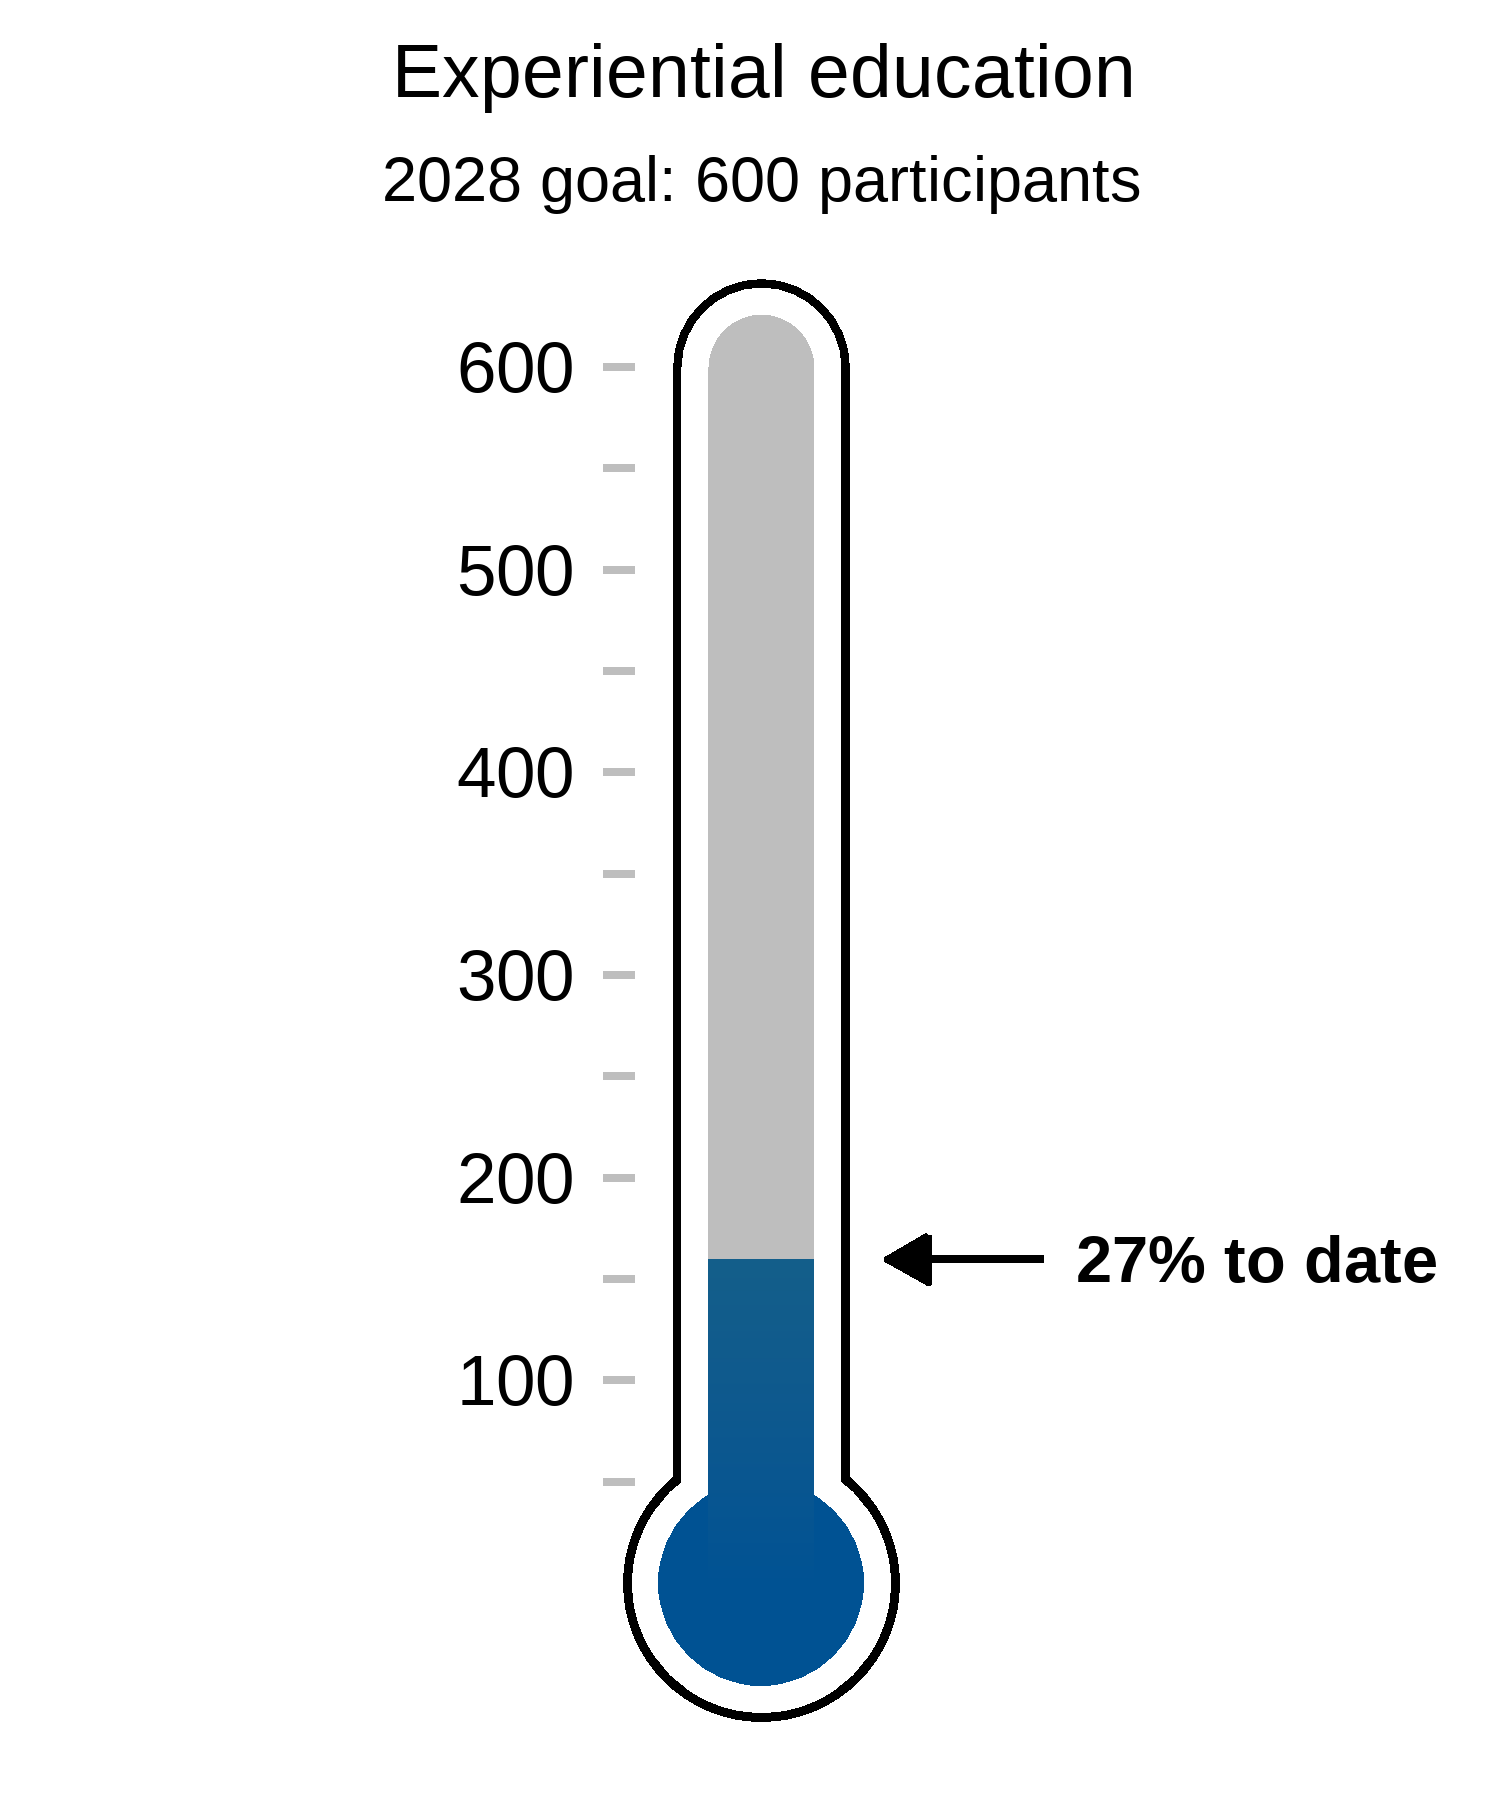
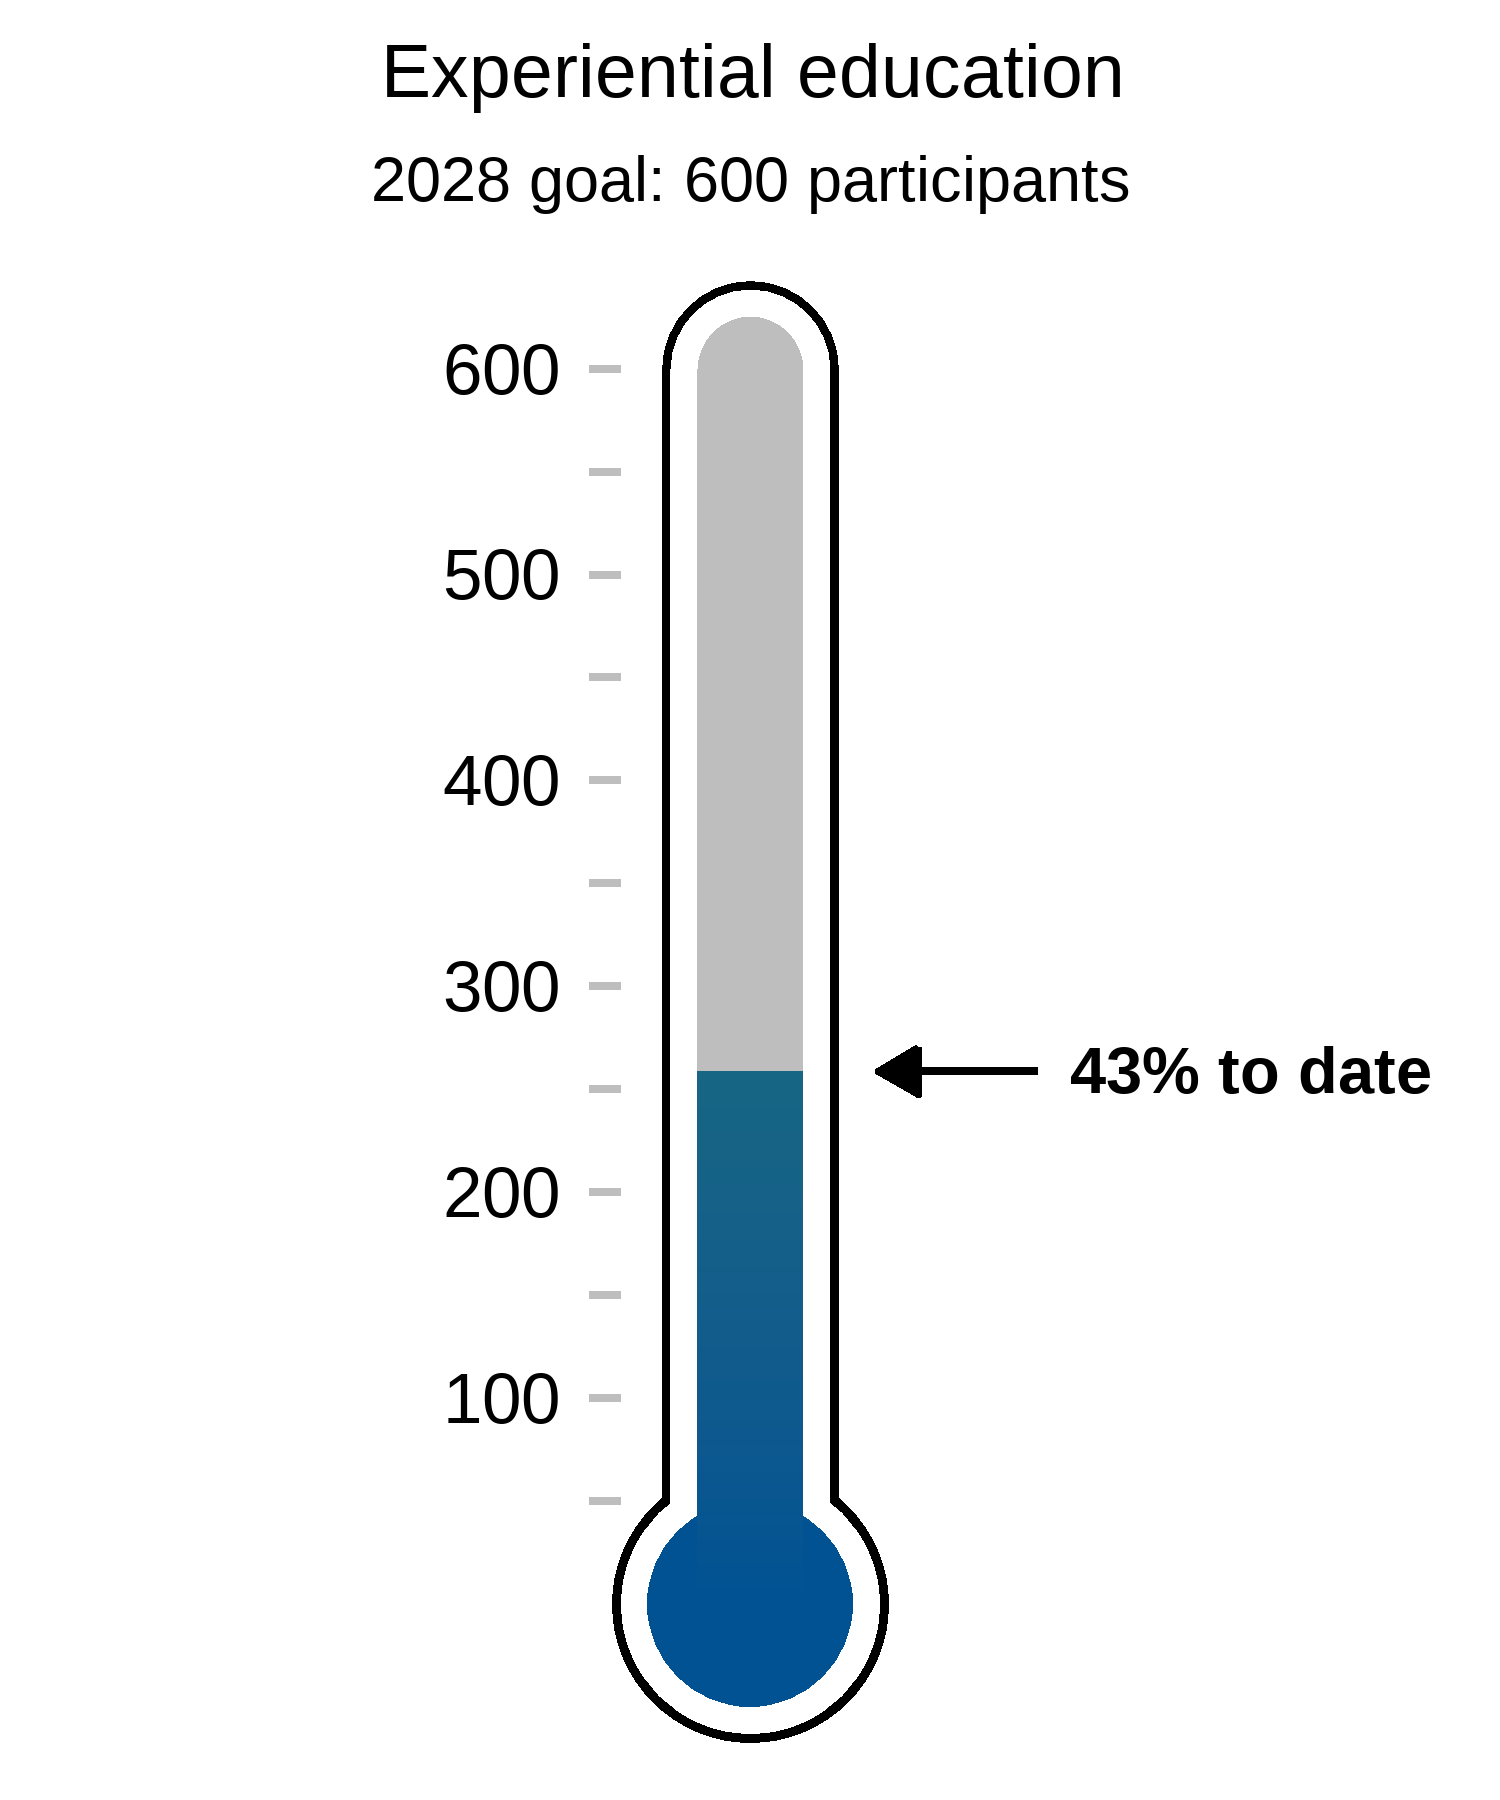
change gad graphic to same on website, update exped

diff --git a/docs/give-a-day.html b/docs/give-a-day.html
@@ -192,13 +192,13 @@ of blue carbon habitats by using tea bags to measure soil decomposition
 rates and carbon storage capacities of wetlands.</p>
 <div id="year-in-review" class="section level2">
 <h2>2025 Year in Review</h2>
-<p><img
-src="https://tbep.org/wp-content/uploads/Give-A-Day-Recap-1.jpg" />
+<p><img src="https://tbep.org/wp-content/uploads/Give-A-Day-Recap-1.jpg"
+style="display: block; margin-left: auto; margin-right: auto;;width:80.0%" /></p>
 <!-- ```{r, out.width = '80%', fig.height = 17, fig.width = 14}
 gaddat %>% 
   gadsum_fun(yrsel = yrsel) %>% 
   gadsum_plo(family = fml)
-``` --></p>
+``` -->
 </div>
 <div id="trash-free-waters" class="section level2">
 <h2>Trash Free Waters</h2>
@@ -216,8 +216,8 @@ href="https://tbep.org/trash-free-waters/" target="_parent">Trash Free
 Waters</a> and <a href="https://tbep.org/debris-derby/"
 target="_parent">Debris Derby</a> pages to learn more about this
 initiative.</p>
-<div class="reactable html-widget html-fill-item" id="htmlwidget-57aa38294b674d146369" style="width:auto;height:auto;"></div>
-<script type="application/json" data-for="htmlwidget-57aa38294b674d146369">{"x":{"tag":{"name":"Reactable","attribs":{"data":{"Year":[2025,2024,2023,2022],"Teams":["32","19","40"," 9"],"Volunteers":["125"," 66","140"," 50"],"Pounds of trash removed":["7,114","-","4,664","2,600"],"Sponsors":["15","27","24"," 8"]},"columns":[{"id":"Year","name":"Year","type":"numeric","headerStyle":{"fontSize":"20px","fontFamily":"roboto"},"footerStyle":{"fontSize":"20px","fontFamily":"roboto"},"align":"left"},{"id":"Teams","name":"Teams","type":"character","headerStyle":{"fontSize":"20px","fontFamily":"roboto"},"footerStyle":{"fontSize":"20px","fontFamily":"roboto"},"header":"<span style=\"margin-right: 5px;\"><svg aria-hidden=\"true\" role=\"img\" viewBox=\"0 0 576 512\" style=\"height:1em;width:1.12em;vertical-align:-0.125em;margin-left:auto;margin-right:auto;font-size:inherit;fill:currentColor;overflow:visible;position:relative;\"><path d=\"M192 32c0-17.7 14.3-32 32-32H352c17.7 0 32 14.3 32 32V64h48c26.5 0 48 21.5 48 48V240l44.4 14.8c23.1 7.7 29.5 37.5 11.5 53.9l-101 92.6c-16.2 9.4-34.7 15.1-50.9 15.1c-19.6 0-40.8-7.7-59.2-20.3c-22.1-15.5-51.6-15.5-73.7 0c-17.1 11.8-38 20.3-59.2 20.3c-16.2 0-34.7-5.7-50.9-15.1l-101-92.6c-18-16.5-11.6-46.2 11.5-53.9L96 240V112c0-26.5 21.5-48 48-48h48V32zM160 218.7l107.8-35.9c13.1-4.4 27.3-4.4 40.5 0L416 218.7V128H160v90.7zM306.5 421.9C329 437.4 356.5 448 384 448c26.9 0 55.4-10.8 77.4-26.1l0 0c11.9-8.5 28.1-7.8 39.2 1.7c14.4 11.9 32.5 21 50.6 25.2c17.2 4 27.9 21.2 23.9 38.4s-21.2 27.9-38.4 23.9c-24.5-5.7-44.9-16.5-58.2-25C449.5 501.7 417 512 384 512c-31.9 0-60.6-9.9-80.4-18.9c-5.8-2.7-11.1-5.3-15.6-7.7c-4.5 2.4-9.7 5.1-15.6 7.7c-19.8 9-48.5 18.9-80.4 18.9c-33 0-65.5-10.3-94.5-25.8c-13.4 8.4-33.7 19.3-58.2 25c-17.2 4-34.4-6.7-38.4-23.9s6.7-34.4 23.9-38.4c18.1-4.2 36.2-13.3 50.6-25.2c11.1-9.4 27.3-10.1 39.2-1.7l0 0C136.7 437.2 165.1 448 192 448c27.5 0 55-10.6 77.5-26.1c11.1-7.9 25.9-7.9 37 0z\"/><\/svg><\/span>\n<span>Teams<\/span>","html":true,"align":"center"},{"id":"Volunteers","name":"Volunteers","type":"character","headerStyle":{"fontSize":"20px","fontFamily":"roboto"},"footerStyle":{"fontSize":"20px","fontFamily":"roboto"},"header":"<span style=\"margin-right: 5px;\"><svg aria-hidden=\"true\" role=\"img\" viewBox=\"0 0 448 512\" style=\"height:1em;width:0.88em;vertical-align:-0.125em;margin-left:auto;margin-right:auto;font-size:inherit;fill:currentColor;overflow:visible;position:relative;\"><path d=\"M304 128a80 80 0 1 0 -160 0 80 80 0 1 0 160 0zM96 128a128 128 0 1 1 256 0A128 128 0 1 1 96 128zM49.3 464H398.7c-8.9-63.3-63.3-112-129-112H178.3c-65.7 0-120.1 48.7-129 112zM0 482.3C0 383.8 79.8 304 178.3 304h91.4C368.2 304 448 383.8 448 482.3c0 16.4-13.3 29.7-29.7 29.7H29.7C13.3 512 0 498.7 0 482.3z\"/><\/svg><\/span>\n<span>Volunteers<\/span>","html":true,"align":"center"},{"id":"Pounds of trash removed","name":"Pounds of trash removed","type":"character","headerStyle":{"fontSize":"20px","fontFamily":"roboto"},"footerStyle":{"fontSize":"20px","fontFamily":"roboto"},"header":"<span style=\"margin-right: 5px;\"><svg aria-hidden=\"true\" role=\"img\" viewBox=\"0 0 640 512\" style=\"height:1em;width:1.25em;vertical-align:-0.125em;margin-left:auto;margin-right:auto;font-size:inherit;fill:currentColor;overflow:visible;position:relative;\"><path d=\"M384 32H512c17.7 0 32 14.3 32 32s-14.3 32-32 32H398.4c-5.2 25.8-22.9 47.1-46.4 57.3V448H512c17.7 0 32 14.3 32 32s-14.3 32-32 32H320 128c-17.7 0-32-14.3-32-32s14.3-32 32-32H288V153.3c-23.5-10.3-41.2-31.6-46.4-57.3H128c-17.7 0-32-14.3-32-32s14.3-32 32-32H256c14.6-19.4 37.8-32 64-32s49.4 12.6 64 32zm55.6 288H584.4L512 195.8 439.6 320zM512 416c-62.9 0-115.2-34-126-78.9c-2.6-11 1-22.3 6.7-32.1l95.2-163.2c5-8.6 14.2-13.8 24.1-13.8s19.1 5.3 24.1 13.8l95.2 163.2c5.7 9.8 9.3 21.1 6.7 32.1C627.2 382 574.9 416 512 416zM126.8 195.8L54.4 320H199.3L126.8 195.8zM.9 337.1c-2.6-11 1-22.3 6.7-32.1l95.2-163.2c5-8.6 14.2-13.8 24.1-13.8s19.1 5.3 24.1 13.8l95.2 163.2c5.7 9.8 9.3 21.1 6.7 32.1C242 382 189.7 416 126.8 416S11.7 382 .9 337.1z\"/><\/svg><\/span>\n<span>Lbs of trash removed<\/span>","html":true,"minWidth":200,"align":"center"},{"id":"Sponsors","name":"Sponsors","type":"character","headerStyle":{"fontSize":"20px","fontFamily":"roboto"},"footerStyle":{"fontSize":"20px","fontFamily":"roboto"},"header":"<span style=\"margin-right: 5px;\"><svg aria-hidden=\"true\" role=\"img\" viewBox=\"0 0 640 512\" style=\"height:1em;width:1.25em;vertical-align:-0.125em;margin-left:auto;margin-right:auto;font-size:inherit;fill:currentColor;overflow:visible;position:relative;\"><path d=\"M272.2 64.6l-51.1 51.1c-15.3 4.2-29.5 11.9-41.5 22.5L153 161.9C142.8 171 129.5 176 115.8 176H96V304c20.4 .6 39.8 8.9 54.3 23.4l35.6 35.6 7 7 0 0L219.9 397c6.2 6.2 16.4 6.2 22.6 0c1.7-1.7 3-3.7 3.7-5.8c2.8-7.7 9.3-13.5 17.3-15.3s16.4 .6 22.2 6.5L296.5 393c11.6 11.6 30.4 11.6 41.9 0c5.4-5.4 8.3-12.3 8.6-19.4c.4-8.8 5.6-16.6 13.6-20.4s17.3-3 24.4 2.1c9.4 6.7 22.5 5.8 30.9-2.6c9.4-9.4 9.4-24.6 0-33.9L340.1 243l-35.8 33c-27.3 25.2-69.2 25.6-97 .9c-31.7-28.2-32.4-77.4-1.6-106.5l70.1-66.2C303.2 78.4 339.4 64 377.1 64c36.1 0 71 13.3 97.9 37.2L505.1 128H544h40 40c8.8 0 16 7.2 16 16V352c0 17.7-14.3 32-32 32H576c-11.8 0-22.2-6.4-27.7-16H463.4c-3.4 6.7-7.9 13.1-13.5 18.7c-17.1 17.1-40.8 23.8-63 20.1c-3.6 7.3-8.5 14.1-14.6 20.2c-27.3 27.3-70 30-100.4 8.1c-25.1 20.8-62.5 19.5-86-4.1L159 404l-7-7-35.6-35.6c-5.5-5.5-12.7-8.7-20.4-9.3C96 369.7 81.6 384 64 384H32c-17.7 0-32-14.3-32-32V144c0-8.8 7.2-16 16-16H56 96h19.8c2 0 3.9-.7 5.3-2l26.5-23.6C175.5 77.7 211.4 64 248.7 64H259c4.4 0 8.9 .2 13.2 .6zM544 320V176H496c-5.9 0-11.6-2.2-15.9-6.1l-36.9-32.8c-18.2-16.2-41.7-25.1-66.1-25.1c-25.4 0-49.8 9.7-68.3 27.1l-70.1 66.2c-10.3 9.8-10.1 26.3 .5 35.7c9.3 8.3 23.4 8.1 32.5-.3l71.9-66.4c9.7-9 24.9-8.4 33.9 1.4s8.4 24.9-1.4 33.9l-.8 .8 74.4 74.4c10 10 16.5 22.3 19.4 35.1H544zM64 336a16 16 0 1 0 -32 0 16 16 0 1 0 32 0zm528 16a16 16 0 1 0 0-32 16 16 0 1 0 0 32z\"/><\/svg><\/span>\n<span>Sponsors<\/span>","html":true,"align":"center"}],"sortable":false,"resizable":true,"borderless":true,"style":{"fontSize":"20px","fontFamily":"roboto"},"theme":{"headerStyle":{"borderColor":"white"}},"dataKey":"9133e5e00c2e76fd41ef72f796ec4926"},"children":[]},"class":"reactR_markup"},"evals":[],"jsHooks":[]}</script>
+<div class="reactable html-widget html-fill-item" id="htmlwidget-1f9103401c5d844a7cfa" style="width:auto;height:auto;"></div>
+<script type="application/json" data-for="htmlwidget-1f9103401c5d844a7cfa">{"x":{"tag":{"name":"Reactable","attribs":{"data":{"Year":[2025,2024,2023,2022],"Teams":["32","19","40"," 9"],"Volunteers":["125"," 66","140"," 50"],"Pounds of trash removed":["7,114","-","4,664","2,600"],"Sponsors":["15","27","24"," 8"]},"columns":[{"id":"Year","name":"Year","type":"numeric","headerStyle":{"fontSize":"20px","fontFamily":"roboto"},"footerStyle":{"fontSize":"20px","fontFamily":"roboto"},"align":"left"},{"id":"Teams","name":"Teams","type":"character","headerStyle":{"fontSize":"20px","fontFamily":"roboto"},"footerStyle":{"fontSize":"20px","fontFamily":"roboto"},"header":"<span style=\"margin-right: 5px;\"><svg aria-hidden=\"true\" role=\"img\" viewBox=\"0 0 576 512\" style=\"height:1em;width:1.12em;vertical-align:-0.125em;margin-left:auto;margin-right:auto;font-size:inherit;fill:currentColor;overflow:visible;position:relative;\"><path d=\"M192 32c0-17.7 14.3-32 32-32H352c17.7 0 32 14.3 32 32V64h48c26.5 0 48 21.5 48 48V240l44.4 14.8c23.1 7.7 29.5 37.5 11.5 53.9l-101 92.6c-16.2 9.4-34.7 15.1-50.9 15.1c-19.6 0-40.8-7.7-59.2-20.3c-22.1-15.5-51.6-15.5-73.7 0c-17.1 11.8-38 20.3-59.2 20.3c-16.2 0-34.7-5.7-50.9-15.1l-101-92.6c-18-16.5-11.6-46.2 11.5-53.9L96 240V112c0-26.5 21.5-48 48-48h48V32zM160 218.7l107.8-35.9c13.1-4.4 27.3-4.4 40.5 0L416 218.7V128H160v90.7zM306.5 421.9C329 437.4 356.5 448 384 448c26.9 0 55.4-10.8 77.4-26.1l0 0c11.9-8.5 28.1-7.8 39.2 1.7c14.4 11.9 32.5 21 50.6 25.2c17.2 4 27.9 21.2 23.9 38.4s-21.2 27.9-38.4 23.9c-24.5-5.7-44.9-16.5-58.2-25C449.5 501.7 417 512 384 512c-31.9 0-60.6-9.9-80.4-18.9c-5.8-2.7-11.1-5.3-15.6-7.7c-4.5 2.4-9.7 5.1-15.6 7.7c-19.8 9-48.5 18.9-80.4 18.9c-33 0-65.5-10.3-94.5-25.8c-13.4 8.4-33.7 19.3-58.2 25c-17.2 4-34.4-6.7-38.4-23.9s6.7-34.4 23.9-38.4c18.1-4.2 36.2-13.3 50.6-25.2c11.1-9.4 27.3-10.1 39.2-1.7l0 0C136.7 437.2 165.1 448 192 448c27.5 0 55-10.6 77.5-26.1c11.1-7.9 25.9-7.9 37 0z\"/><\/svg><\/span>\n<span>Teams<\/span>","html":true,"align":"center"},{"id":"Volunteers","name":"Volunteers","type":"character","headerStyle":{"fontSize":"20px","fontFamily":"roboto"},"footerStyle":{"fontSize":"20px","fontFamily":"roboto"},"header":"<span style=\"margin-right: 5px;\"><svg aria-hidden=\"true\" role=\"img\" viewBox=\"0 0 448 512\" style=\"height:1em;width:0.88em;vertical-align:-0.125em;margin-left:auto;margin-right:auto;font-size:inherit;fill:currentColor;overflow:visible;position:relative;\"><path d=\"M304 128a80 80 0 1 0 -160 0 80 80 0 1 0 160 0zM96 128a128 128 0 1 1 256 0A128 128 0 1 1 96 128zM49.3 464H398.7c-8.9-63.3-63.3-112-129-112H178.3c-65.7 0-120.1 48.7-129 112zM0 482.3C0 383.8 79.8 304 178.3 304h91.4C368.2 304 448 383.8 448 482.3c0 16.4-13.3 29.7-29.7 29.7H29.7C13.3 512 0 498.7 0 482.3z\"/><\/svg><\/span>\n<span>Volunteers<\/span>","html":true,"align":"center"},{"id":"Pounds of trash removed","name":"Pounds of trash removed","type":"character","headerStyle":{"fontSize":"20px","fontFamily":"roboto"},"footerStyle":{"fontSize":"20px","fontFamily":"roboto"},"header":"<span style=\"margin-right: 5px;\"><svg aria-hidden=\"true\" role=\"img\" viewBox=\"0 0 640 512\" style=\"height:1em;width:1.25em;vertical-align:-0.125em;margin-left:auto;margin-right:auto;font-size:inherit;fill:currentColor;overflow:visible;position:relative;\"><path d=\"M384 32H512c17.7 0 32 14.3 32 32s-14.3 32-32 32H398.4c-5.2 25.8-22.9 47.1-46.4 57.3V448H512c17.7 0 32 14.3 32 32s-14.3 32-32 32H320 128c-17.7 0-32-14.3-32-32s14.3-32 32-32H288V153.3c-23.5-10.3-41.2-31.6-46.4-57.3H128c-17.7 0-32-14.3-32-32s14.3-32 32-32H256c14.6-19.4 37.8-32 64-32s49.4 12.6 64 32zm55.6 288H584.4L512 195.8 439.6 320zM512 416c-62.9 0-115.2-34-126-78.9c-2.6-11 1-22.3 6.7-32.1l95.2-163.2c5-8.6 14.2-13.8 24.1-13.8s19.1 5.3 24.1 13.8l95.2 163.2c5.7 9.8 9.3 21.1 6.7 32.1C627.2 382 574.9 416 512 416zM126.8 195.8L54.4 320H199.3L126.8 195.8zM.9 337.1c-2.6-11 1-22.3 6.7-32.1l95.2-163.2c5-8.6 14.2-13.8 24.1-13.8s19.1 5.3 24.1 13.8l95.2 163.2c5.7 9.8 9.3 21.1 6.7 32.1C242 382 189.7 416 126.8 416S11.7 382 .9 337.1z\"/><\/svg><\/span>\n<span>Lbs of trash removed<\/span>","html":true,"minWidth":200,"align":"center"},{"id":"Sponsors","name":"Sponsors","type":"character","headerStyle":{"fontSize":"20px","fontFamily":"roboto"},"footerStyle":{"fontSize":"20px","fontFamily":"roboto"},"header":"<span style=\"margin-right: 5px;\"><svg aria-hidden=\"true\" role=\"img\" viewBox=\"0 0 640 512\" style=\"height:1em;width:1.25em;vertical-align:-0.125em;margin-left:auto;margin-right:auto;font-size:inherit;fill:currentColor;overflow:visible;position:relative;\"><path d=\"M272.2 64.6l-51.1 51.1c-15.3 4.2-29.5 11.9-41.5 22.5L153 161.9C142.8 171 129.5 176 115.8 176H96V304c20.4 .6 39.8 8.9 54.3 23.4l35.6 35.6 7 7 0 0L219.9 397c6.2 6.2 16.4 6.2 22.6 0c1.7-1.7 3-3.7 3.7-5.8c2.8-7.7 9.3-13.5 17.3-15.3s16.4 .6 22.2 6.5L296.5 393c11.6 11.6 30.4 11.6 41.9 0c5.4-5.4 8.3-12.3 8.6-19.4c.4-8.8 5.6-16.6 13.6-20.4s17.3-3 24.4 2.1c9.4 6.7 22.5 5.8 30.9-2.6c9.4-9.4 9.4-24.6 0-33.9L340.1 243l-35.8 33c-27.3 25.2-69.2 25.6-97 .9c-31.7-28.2-32.4-77.4-1.6-106.5l70.1-66.2C303.2 78.4 339.4 64 377.1 64c36.1 0 71 13.3 97.9 37.2L505.1 128H544h40 40c8.8 0 16 7.2 16 16V352c0 17.7-14.3 32-32 32H576c-11.8 0-22.2-6.4-27.7-16H463.4c-3.4 6.7-7.9 13.1-13.5 18.7c-17.1 17.1-40.8 23.8-63 20.1c-3.6 7.3-8.5 14.1-14.6 20.2c-27.3 27.3-70 30-100.4 8.1c-25.1 20.8-62.5 19.5-86-4.1L159 404l-7-7-35.6-35.6c-5.5-5.5-12.7-8.7-20.4-9.3C96 369.7 81.6 384 64 384H32c-17.7 0-32-14.3-32-32V144c0-8.8 7.2-16 16-16H56 96h19.8c2 0 3.9-.7 5.3-2l26.5-23.6C175.5 77.7 211.4 64 248.7 64H259c4.4 0 8.9 .2 13.2 .6zM544 320V176H496c-5.9 0-11.6-2.2-15.9-6.1l-36.9-32.8c-18.2-16.2-41.7-25.1-66.1-25.1c-25.4 0-49.8 9.7-68.3 27.1l-70.1 66.2c-10.3 9.8-10.1 26.3 .5 35.7c9.3 8.3 23.4 8.1 32.5-.3l71.9-66.4c9.7-9 24.9-8.4 33.9 1.4s8.4 24.9-1.4 33.9l-.8 .8 74.4 74.4c10 10 16.5 22.3 19.4 35.1H544zM64 336a16 16 0 1 0 -32 0 16 16 0 1 0 32 0zm528 16a16 16 0 1 0 0-32 16 16 0 1 0 0 32z\"/><\/svg><\/span>\n<span>Sponsors<\/span>","html":true,"align":"center"}],"sortable":false,"resizable":true,"borderless":true,"style":{"fontSize":"20px","fontFamily":"roboto"},"theme":{"headerStyle":{"borderColor":"white"}},"dataKey":"9133e5e00c2e76fd41ef72f796ec4926"},"children":[]},"class":"reactR_markup"},"evals":[],"jsHooks":[]}</script>
 <p>* Note: 2024 weigh-in cancelled due to incoming tropical
 activity.</p>
 <script type="text/javascript" src="js/iframeResizer.contentWindow.min.js"></script>

diff --git a/docs/experiential-education.html b/docs/experiential-education.html
@@ -13,7 +13,7 @@
 
 <title>experiential-education.knit</title>
 
-<script src="experiential-education_files/header-attrs-2.29/header-attrs.js"></script>
+<script src="experiential-education_files/header-attrs-2.30/header-attrs.js"></script>
 <script src="experiential-education_files/jquery-3.6.0/jquery-3.6.0.min.js"></script>
 <meta name="viewport" content="width=device-width, initial-scale=1" />
 <link href="experiential-education_files/bootstrap-3.3.5/css/bootstrap.min.css" rel="stylesheet" />
@@ -175,14 +175,14 @@ events acknowledge that merging hands-on experience with guided
 education leads to a deeper understanding of key environmental topics.
 The target audience is the general public and anyone that has an
 interest in increasing knowledge about and stewardship of Tampa Bay.</p>
-<p>Since 2023, there have been 25 experiential education events
-co-hosted with 9 bay-area partners. Our goal for the 2024 to 2028 period
+<p>Since 2023, there have been 32 experiential education events
+co-hosted with 7 bay-area partners. Our goal for the 2024 to 2028 period
 is to engage over 600 participants. The goal to date is expressed
 below.</p>
-<p><img src="experiential-education_files/figure-html/unnamed-chunk-1-1.png" width="50%" style="display: block; margin: auto;" /></p>
+<p><img src="experiential-education_files/figure-html/unnamed-chunk-1-1.png" alt="" width="50%" style="display: block; margin: auto;" /></p>
 <div id="year-in-review" class="section level2">
 <h2>2025 Year in Review</h2>
-<p><img src="experiential-education_files/figure-html/unnamed-chunk-2-1.png" width="80%" style="display: block; margin: auto;" /></p>
+<p><img src="experiential-education_files/figure-html/unnamed-chunk-2-1.png" alt="" width="80%" style="display: block; margin: auto;" /></p>
 <script type="text/javascript" src="js/iframeResizer.contentWindow.min.js"></script>
 </div>
 

diff --git a/docs/experiential-education_files/header-attrs-2.30/header-attrs.js b/docs/experiential-education_files/header-attrs-2.30/header-attrs.js
@@ -1,0 +1,12 @@
+// Pandoc 2.9 adds attributes on both header and div. We remove the former (to
+// be compatible with the behavior of Pandoc < 2.8).
+document.addEventListener('DOMContentLoaded', function(e) {
+  var hs = document.querySelectorAll("div.section[class*='level'] > :first-child");
+  var i, h, a;
+  for (i = 0; i < hs.length; i++) {
+    h = hs[i];
+    if (!/^h[1-6]$/i.test(h.tagName)) continue;  // it should be a header h1-h6
+    a = h.attributes;
+    while (a.length > 0) h.removeAttribute(a[0].name);
+  }
+});
